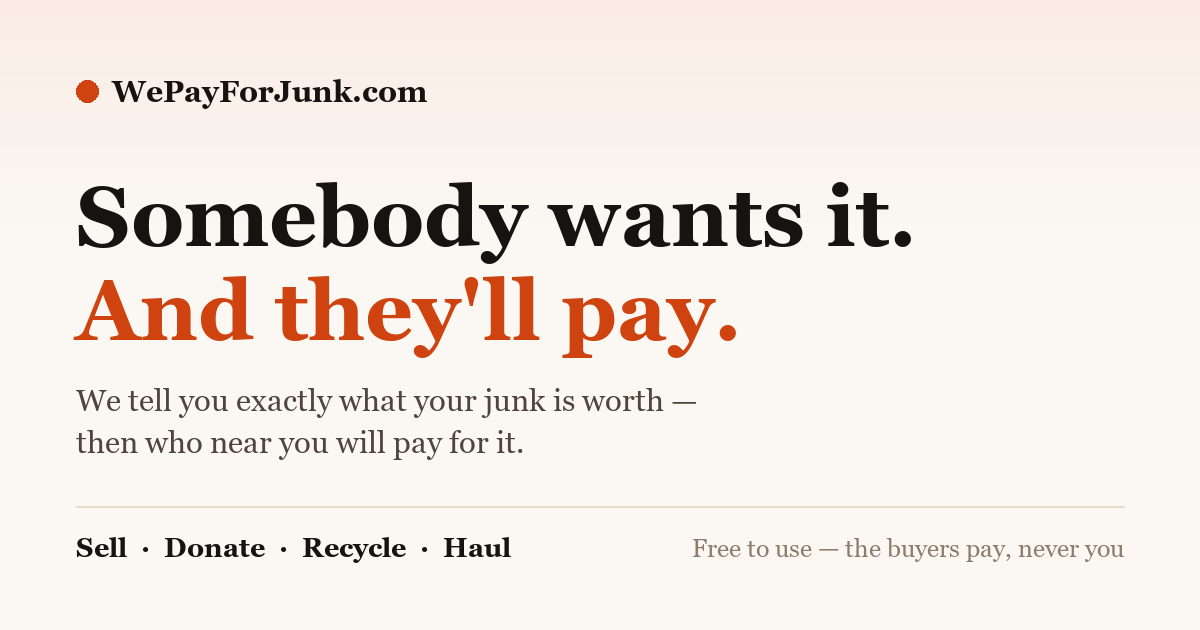
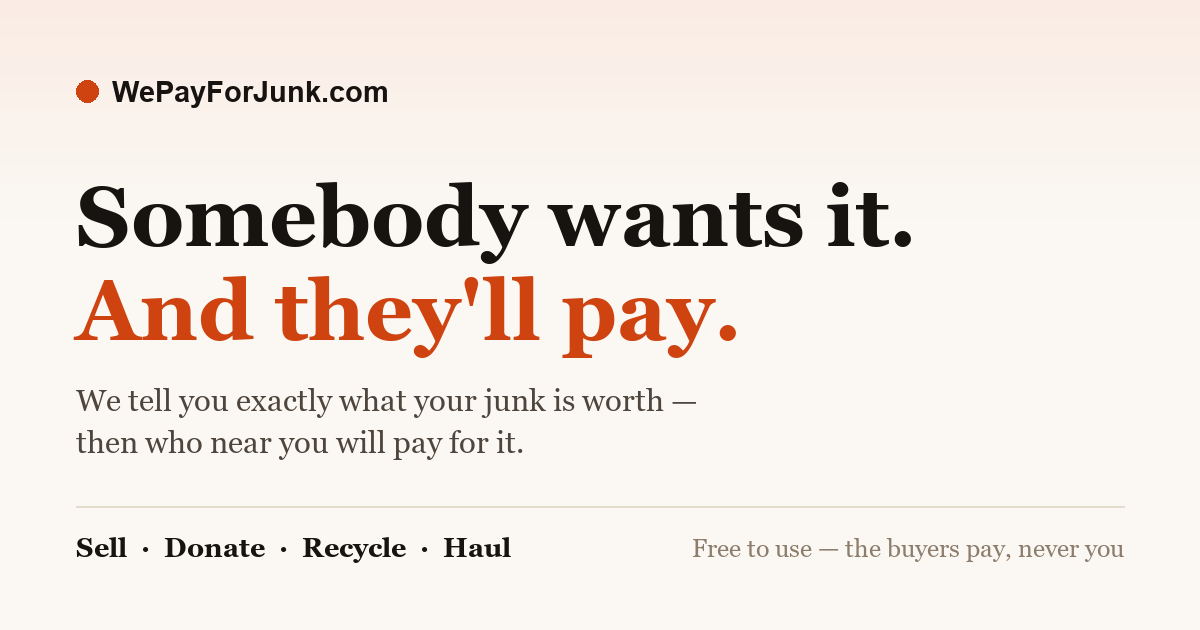
Set the WePayForJunk wordmark in Inter, not Fraunces
Inter is the open-source Helvetica equivalent — a neutral grotesque
drawn for screens. Real Helvetica Neue, Helvetica and Arial sit behind
it in the stack purely as a no-webfont fallback rather than as a first
choice: a logo that renders as Helvetica on a Mac and Arial on Windows
is not a logo.

Scoped to a --logo token so it cannot leak. Headlines stay Fraunces and
body copy stays Satoshi; only the wordmark moved.

Retuned for the new face rather than dropped in: 700 instead of 600
because Inter's even, low-contrast strokes read lighter than Fraunces
did at the same nominal weight, and -.022em instead of -.035em because
a grotesque with Inter's x-height collides at Fraunces' tracking. The
SOFT and WONK variation axes are removed — they were Fraunces-only and
would have been inert.

OG image regenerated so the social card's wordmark matches: that line
is now Arial, which is metrically Helvetica. The headline stays a serif
because site headlines still are.

No privacy-policy change needed — fonts.gstatic.com was already a
declared third party via Fraunces, so this adds no new one.

Changed region(s): [[0.0925, 0.1206, 0.37, 0.181]]

diff --git a/assets/styles.css b/assets/styles.css
@@ -31,6 +31,12 @@
   /* type */
   --display:"Fraunces","Iowan Old Style",Palatino,Georgia,serif;
   --sans:"Satoshi","Inter Tight",-apple-system,BlinkMacSystemFont,"Segoe UI",Roboto,Helvetica,Arial,sans-serif;
+  /* The wordmark only. Inter is the open-source Helvetica equivalent —
+     a neutral grotesque drawn for screens. Real Helvetica and Arial sit
+     behind it purely as a no-webfont fallback, not as a first choice:
+     a logo that renders as a serif on one machine and a grotesque on
+     the next is not a logo. */
+  --logo:"Inter","Helvetica Neue",Helvetica,Arial,sans-serif;
 
   /* scale */
   --t-hero:clamp(3rem,8.5vw,6.5rem);
@@ -110,8 +116,12 @@ header.nav.stuck{border-bottom-color:var(--line);background:rgba(251,248,243,.9)
 .nav-in{display:flex;align-items:center;gap:8px;height:72px;max-width:1180px;margin:0 auto;padding:0 28px}
 .logo{
   display:flex;align-items:center;gap:11px;margin-right:auto;cursor:pointer;
-  font-family:var(--display);font-size:1.28rem;font-weight:600;letter-spacing:-.035em;
-  font-variation-settings:"SOFT" 26,"WONK" 1;
+  /* 700 not 600: Inter's even, low-contrast strokes read lighter than
+     Fraunces did at the same nominal weight. -.022em rather than -.035em
+     because a grotesque with Inter's x-height collides at Fraunces'
+     tracking. The SOFT/WONK axes are gone — they were Fraunces-only and
+     would be inert here. */
+  font-family:var(--logo);font-size:1.24rem;font-weight:700;letter-spacing:-.022em;
 }
 .logo .dot{
   width:11px;height:11px;border-radius:50%;background:var(--urgent);flex:none;

diff --git a/index.html b/index.html
@@ -29,6 +29,7 @@
 <link rel="preconnect" href="https://api.fontshare.com" crossorigin>
 <link href="https://fonts.googleapis.com/css2?family=Fraunces:ital,opsz,wght,SOFT,WONK@0,9..144,300..900,0..100,0..1;1,9..144,300..900,0..100,0..1&display=swap" rel="stylesheet">
 <link href="https://api.fontshare.com/v2/css?f[]=satoshi@400,500,600,700&display=swap" rel="stylesheet">
+<link href="https://fonts.googleapis.com/css2?family=Inter:wght@600..700&display=swap" rel="stylesheet">
 <link rel="stylesheet" href="assets/styles.css">
 <link rel="stylesheet" href="assets/buyer.css">
 <link rel="stylesheet" href="assets/verdict.css">

diff --git a/privacy.html b/privacy.html
@@ -12,6 +12,7 @@
 <link rel="preconnect" href="https://api.fontshare.com" crossorigin>
 <link href="https://fonts.googleapis.com/css2?family=Fraunces:ital,opsz,wght,SOFT,WONK@0,9..144,300..900,0..100,0..1;1,9..144,300..900,0..100,0..1&display=swap" rel="stylesheet">
 <link href="https://api.fontshare.com/v2/css?f[]=satoshi@400,500,600,700&display=swap" rel="stylesheet">
+<link href="https://fonts.googleapis.com/css2?family=Inter:wght@600..700&display=swap" rel="stylesheet">
 <link rel="stylesheet" href="assets/styles.css">
 <style>
   .legal h3{font-size:1.3rem;margin:38px 0 12px}

diff --git a/thanks.html b/thanks.html
@@ -12,6 +12,7 @@
 <link rel="preconnect" href="https://api.fontshare.com" crossorigin>
 <link href="https://fonts.googleapis.com/css2?family=Fraunces:ital,opsz,wght,SOFT,WONK@0,9..144,300..900,0..100,0..1;1,9..144,300..900,0..100,0..1&display=swap" rel="stylesheet">
 <link href="https://api.fontshare.com/v2/css?f[]=satoshi@400,500,600,700&display=swap" rel="stylesheet">
+<link href="https://fonts.googleapis.com/css2?family=Inter:wght@600..700&display=swap" rel="stylesheet">
 <link rel="stylesheet" href="assets/styles.css">
 </head>
 <body>
